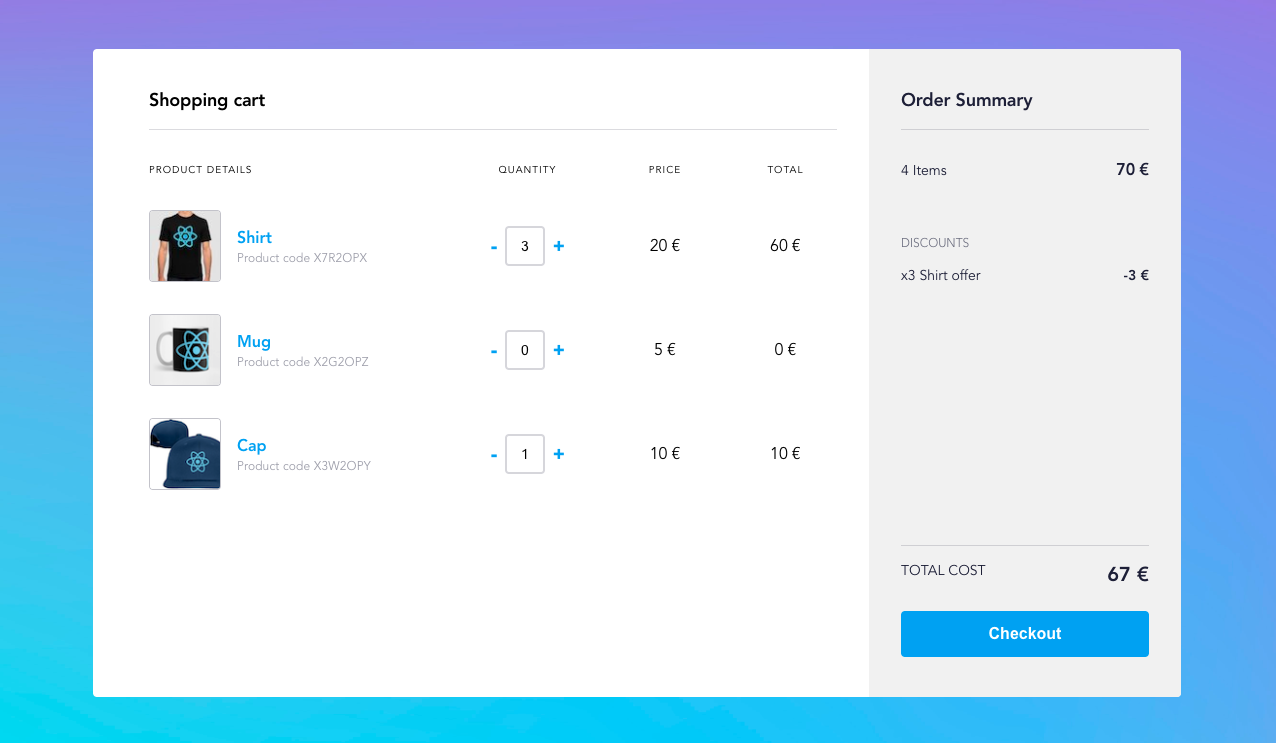
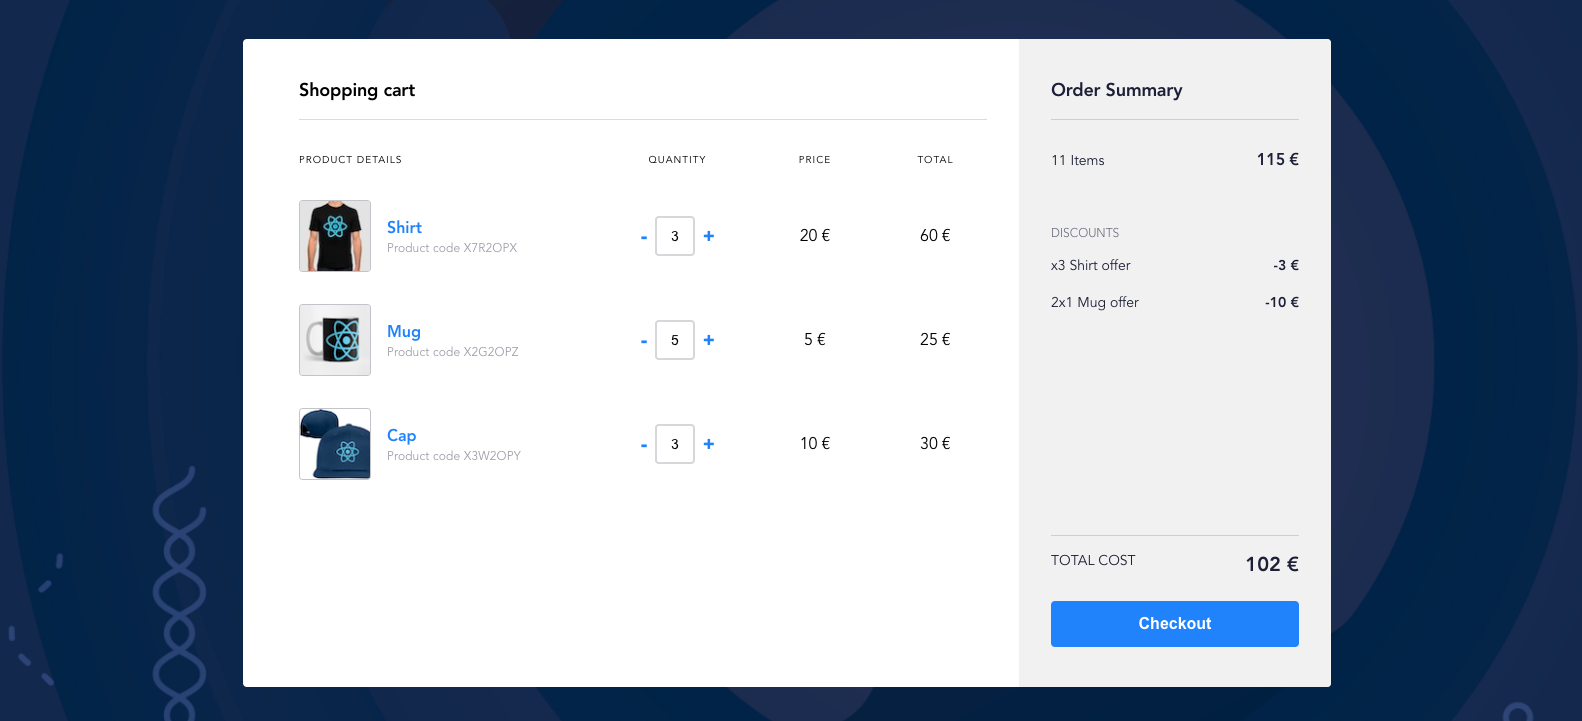
chore: replace colro pattern and background image

diff --git a/src/sass/_theme.scss b/src/sass/_theme.scss
@@ -4,28 +4,28 @@
 // Edit theme settings below at your convenience
 // ----------------------------------------------
 // - Main Background Image
-$appBackgroundImage         : '~/img/background.jpg';
+$appBackgroundImage         : '~/img/background.png';
 // - Fonts family set
 $appFontsFamily             : Avenir, 'Avenir Next', 'Segoe UI', sans-serif;
 // - Theme color palette
 $theme: (
   'mainBackgroundColor'     : #212240,
   'backgroundContainer'     : #ffffff,
-  'loader'                  : #00A9F7,
-  'quantityButton'          : #00A9F7,
+  'loader'                  : #3D8CFF,
+  'quantityButton'          : #3D8CFF,
   'quantityInput'           : #dbdbe0,
   'header'                  : #000000,
   'subHeader'               : #717285,
   'headerBorder'            : rgba(33, 34, 64, 0.16),
   'tableHeader'             : #a6a7b3,
   'asideBlockBorder'        : rgba(33, 34, 64, 0.16),
-  'productName'             : #00A9F7,
+  'productName'             : #3D8CFF,
   'productPrice'            : #000000,
   'thumbsBorder'            : #cacad1,
   'summaryBackground'       : #f3f3f3,
   'summaryTextColor'        : #212240,
   'ctaColor'                : #ffffff,
-  'ctaBackground'           : #00A9F7,
+  'ctaBackground'           : #3D8CFF,
 );
 // - Responsive threshold
 $breakpoint                 : 760px;

diff --git a/src/index.html b/src/index.html
@@ -3,7 +3,7 @@
     <meta charset="utf-8" />
     <link rel="shortcut icon" href="/favicon.ico" />
     <meta name="viewport" content="width=device-width, initial-scale=1" />
-    <meta name="theme-color" content="#00A9F7" />
+    <meta name="theme-color" content="#3D8CFF" />
     <link rel="manifest" href="/manifest.webmanifest" />
     <link href="sass/main.scss" rel="stylesheet" />
     <link rel="preload" href="./img/items/cap.png" as="image">
